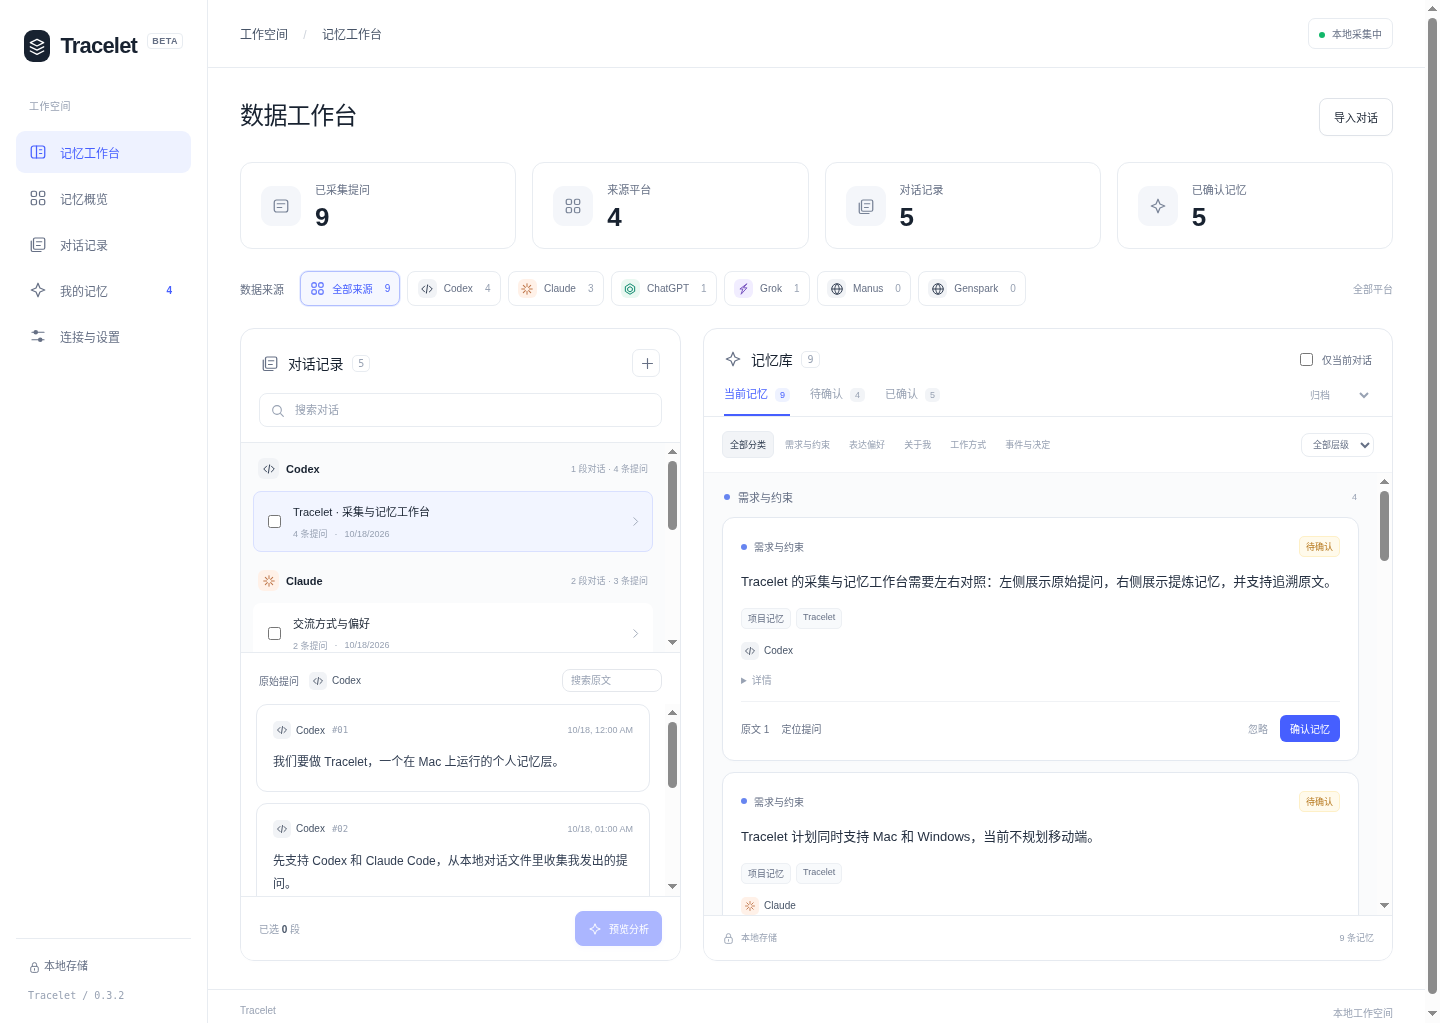
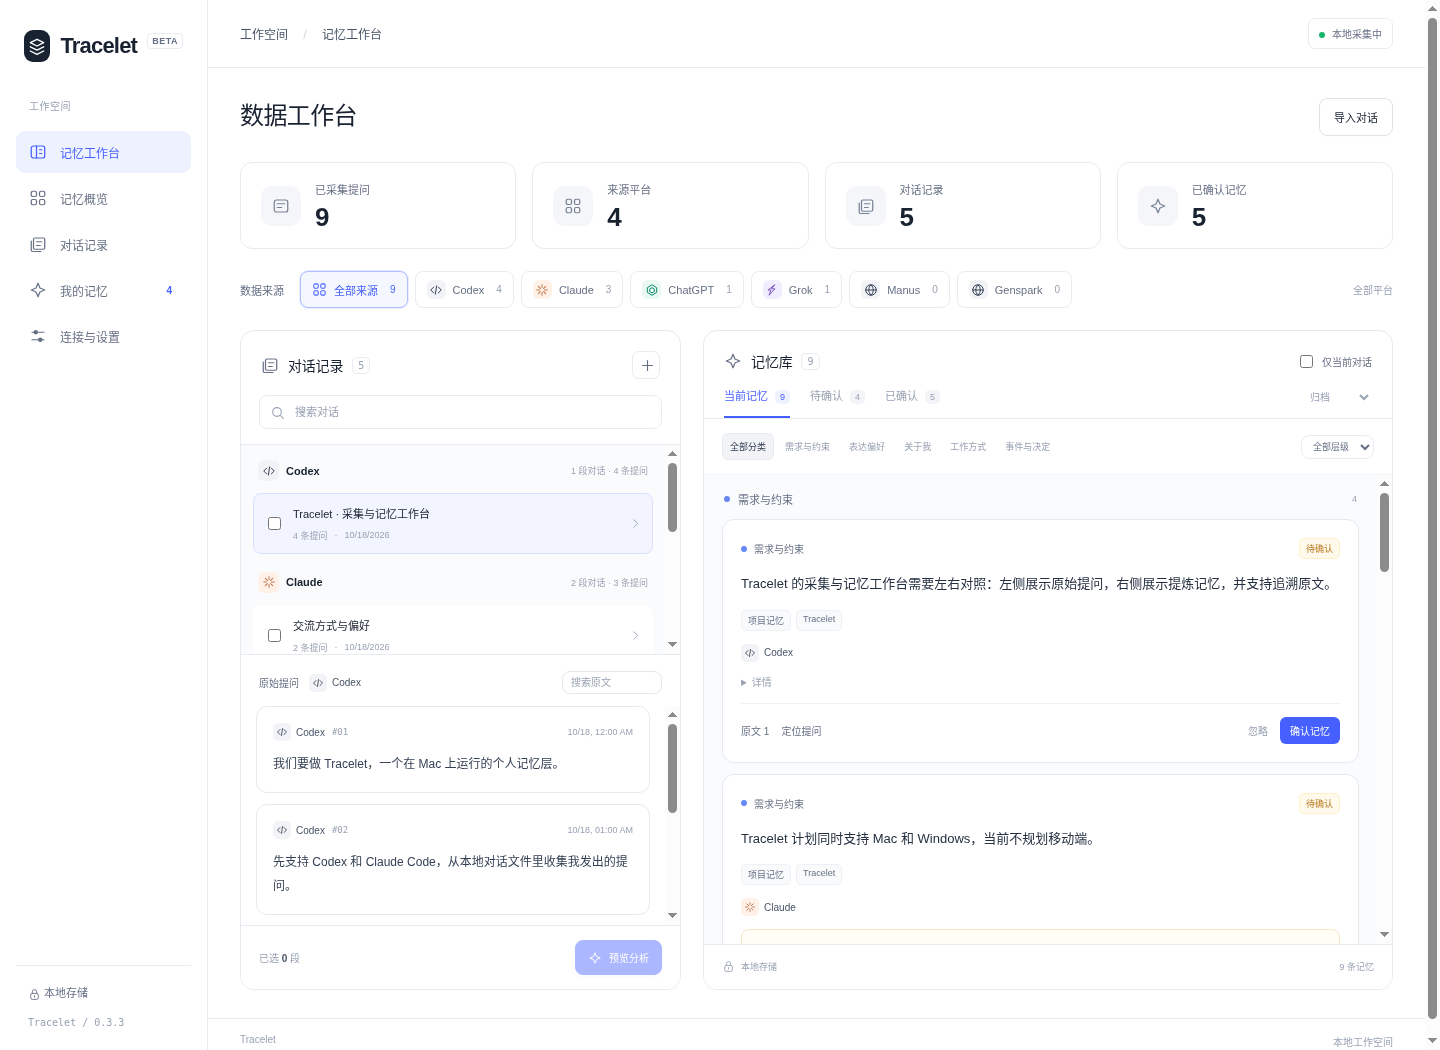
Use software offscreen rendering for reliable Intel Mac CI screenshots

diff --git a/site/privacy.html b/site/privacy.html
@@ -1,1 +1,1 @@
-<!doctype html><html lang="zh-CN"><head><meta charset="utf-8"><meta name="viewport" content="width=device-width,initial-scale=1"><meta name="description" content="Tracelet 隐私说明：本地采集、AI 分析、密钥保护及数据导出与删除。"><title>隐私说明 · Tracelet</title><link rel="icon" href="icon.svg"><link rel="stylesheet" href="style.css"><meta http-equiv="Content-Security-Policy" content="default-src 'self'; style-src 'self'; img-src 'self'; object-src 'none'; base-uri 'none'"></head><body><header class="site-header"><a class="wordmark" href="index.html"><span class="logo">⌁</span>tracelet</a><a class="text-link" href="index.html">返回首页 ↗</a></header><main class="legal"><div class="overline">PRIVACY, IN PLAIN WORDS · 0.3.2</div><h1>你的记忆，由你掌握。</h1><p>这份说明对应 Tracelet 0.3.2 测试版，说明应用实际读取、保存和发送什么。</p><h2>1. 读取哪些内容</h2><p>采集默认关闭。你开启后，应用监听本机 Codex sessions 和 Claude Code projects 目录下的 JSONL 文件，解析用户消息的文本。解析会临时读取对话文件（其中可能包含助手消息），但只有用户提问及来源元数据会存入数据库。导入功能读取你在文件选择器中选定的 JSON 或 JSONL。我们不监听键盘、不录屏、不读取浏览器 Cookie。</p><p>Chrome / Edge 扩展只有在你逐站授权开启后才读取页面中匹配规则的已提交用户消息。仅限已加载的文本，不读取输入框草稿；模板必须预览核对。网站 DOM 变化或规则不准确时可能误选内容。扩展存储本地副本和待同步队列，通过 Native Messaging 连接已配对的本机应用；不调用 OpenRouter、不读取 Cookie、不注入网页脚本或截获网络请求。来源 URL 去掉查询参数与片段；会话标识为哈希，可能包含指定会话参数的哈希。网页通常没有原始发言时间，显示的是采集时间。</p><h2>2. 数据放在哪里</h2><p>对话、时间、平台、会话标识和来源路径，以及候选和已确认记忆，保存在 macOS 的 ~/Library/Application Support/Tracelet/ 中。SQLite 数据库本身未加密；文件权限仅限当前系统用户。建议开启 FileVault，避免共享系统账户。备份软件也可能复制这些文件。没有 Tracelet 云端账号或遥测服务。</p><p>扩展副本保存在浏览器 storage.local，未单独加密。桌面连接先将数据包存入 browser-inbox，入库完成后删除入站文件。只有已配对的扩展 ID 可调用 Host；配对会在当前用户的 Chrome / Edge NativeMessagingHosts 目录写入清单，并在应用数据目录保存启动脚本。</p><h2>3. AI 分析会发送什么</h2><p>分析需要你选择对话并确认预览。应用仅通过 HTTPS 将预览中显示的提问正文、证据 ID、会话标识、时间及预览中的参考记忆，以及系统分析指令、模型参数发送至 OpenRouter。不会把本地文件路径、API Key 放在分析正文中；API Key 仅用于 Authorization 认证。OpenRouter 再将内容路由到你选择的模型提供商；这些内容适用相应服务商的数据政策，不能视为完全离线。请勿发送你无权分享的内容；原文可能包含个人信息或秘密，发送前务必检查。</p><p>应用没有自动后台分析或无提示的模型回退。获取可用模型列表也会连接 OpenRouter。费用由你的 OpenRouter 账户承担。参见 <a href="https://openrouter.ai/privacy">OpenRouter 隐私政策</a>。</p><h2>4. API Key 如何保护</h2><p>应用通过 Electron safeStorage 使用 macOS Keychain 保护加密密钥，将 API Key 的加密数据保存到用户数据目录。系统安全存储不可用时拒绝保存。Key 不放在网页、GitHub、安装包、对话数据库或 JSON 导出中。你可以在设置中移除 Key。在聊天或公开文件中暴露的 Key 应立即撤销。</p><h2>5. 记忆如何确认</h2><p>AI 输出只作为候选，可能不准确。候选必须引用有效提问证据，通过结构校验后保存；仍需你人工确认或忽略。模型输出的“自评置信度”并非统计准确率。分析不运行工具、不执行提问中的命令，不会自动删除或覆盖你已确认的记忆。</p><h2>6. 导出、删除与卸载</h2><p>你可以导出包含原文的 JSON，请妥善保管。清空数据会删除本机提问和记忆并暂停自动采集；不会删除平台的原始对话文件、其他位置的导出或备份，也无法撤回已经发送给模型服务商的请求。重新开启采集会重新导入本地来源。桌面暂停仅停止本地同步，停止网页采集需在扩展中暂停本站或撤回权限。清空桌面数据库不会清空扩展副本；需在扩展设置中另行清除，重新开启可能再次导入历史。卸载扩展不移除桌面 Host 清单；可删除浏览器 NativeMessagingHosts 中 app.tracelet.browser.json 以解除原生连接。API Key 独立移除。卸载应用不会自动删除用户数据目录。</p><h2>7. 官网</h2><p>官网是 GitHub Pages 静态页面，没有登录、表单或分析脚本。页面从同源读取发布状态文件。浏览网站与下载安装包会向 GitHub 基础设施发起网络请求，适用 GitHub 的相关政策。</p><h2>反馈与联系</h2><p>可在 <a href="https://github.com/JackZhong1998/personal-memory/issues">GitHub Issues</a> 反馈；请勿在公开 Issue 中粘贴 API Key 或私人对话。</p></main></body></html>
+<!doctype html><html lang="zh-CN"><head><meta charset="utf-8"><meta name="viewport" content="width=device-width,initial-scale=1"><meta name="description" content="Tracelet 隐私说明：本地采集、AI 分析、密钥保护及数据导出与删除。"><title>隐私说明 · Tracelet</title><link rel="icon" href="icon.svg"><link rel="stylesheet" href="style.css"><meta http-equiv="Content-Security-Policy" content="default-src 'self'; style-src 'self'; img-src 'self'; object-src 'none'; base-uri 'none'"></head><body><header class="site-header"><a class="wordmark" href="index.html"><span class="logo">⌁</span>tracelet</a><a class="text-link" href="index.html">返回首页 ↗</a></header><main class="legal"><div class="overline">PRIVACY, IN PLAIN WORDS · 0.3.3</div><h1>你的记忆，由你掌握。</h1><p>这份说明对应 Tracelet 0.3.3 测试版，说明应用实际读取、保存和发送什么。</p><h2>1. 读取哪些内容</h2><p>采集默认关闭。你开启后，应用监听本机 Codex sessions 和 Claude Code projects 目录下的 JSONL 文件，解析用户消息的文本。解析会临时读取对话文件（其中可能包含助手消息），但只有用户提问及来源元数据会存入数据库。导入功能读取你在文件选择器中选定的 JSON 或 JSONL。我们不监听键盘、不录屏、不读取浏览器 Cookie。</p><p>Chrome / Edge 扩展只有在你逐站授权开启后才读取页面中匹配规则的已提交用户消息。仅限已加载的文本，不读取输入框草稿；模板必须预览核对。网站 DOM 变化或规则不准确时可能误选内容。扩展存储本地副本和待同步队列，通过 Native Messaging 连接已配对的本机应用；不调用 OpenRouter、不读取 Cookie、不注入网页脚本或截获网络请求。来源 URL 去掉查询参数与片段；会话标识为哈希，可能包含指定会话参数的哈希。网页通常没有原始发言时间，显示的是采集时间。</p><h2>2. 数据放在哪里</h2><p>对话、时间、平台、会话标识和来源路径，以及候选和已确认记忆，保存在 macOS 的 ~/Library/Application Support/Tracelet/ 中。SQLite 数据库本身未加密；文件权限仅限当前系统用户。建议开启 FileVault，避免共享系统账户。备份软件也可能复制这些文件。没有 Tracelet 云端账号或遥测服务。</p><p>扩展副本保存在浏览器 storage.local，未单独加密。桌面连接先将数据包存入 browser-inbox，入库完成后删除入站文件。只有已配对的扩展 ID 可调用 Host；配对会在当前用户的 Chrome / Edge NativeMessagingHosts 目录写入清单，并在应用数据目录保存启动脚本。</p><h2>3. AI 分析会发送什么</h2><p>分析需要你选择对话并确认预览。应用仅通过 HTTPS 将预览中显示的提问正文、证据 ID、会话标识、时间及预览中的参考记忆，以及系统分析指令、模型参数发送至 OpenRouter。不会把本地文件路径、API Key 放在分析正文中；API Key 仅用于 Authorization 认证。OpenRouter 再将内容路由到你选择的模型提供商；这些内容适用相应服务商的数据政策，不能视为完全离线。请勿发送你无权分享的内容；原文可能包含个人信息或秘密，发送前务必检查。</p><p>应用没有自动后台分析或无提示的模型回退。获取可用模型列表也会连接 OpenRouter。费用由你的 OpenRouter 账户承担。参见 <a href="https://openrouter.ai/privacy">OpenRouter 隐私政策</a>。</p><h2>4. API Key 如何保护</h2><p>应用通过 Electron safeStorage 使用 macOS Keychain 保护加密密钥，将 API Key 的加密数据保存到用户数据目录。系统安全存储不可用时拒绝保存。Key 不放在网页、GitHub、安装包、对话数据库或 JSON 导出中。你可以在设置中移除 Key。在聊天或公开文件中暴露的 Key 应立即撤销。</p><h2>5. 记忆如何确认</h2><p>AI 输出只作为候选，可能不准确。候选必须引用有效提问证据，通过结构校验后保存；仍需你人工确认或忽略。模型输出的“自评置信度”并非统计准确率。分析不运行工具、不执行提问中的命令，不会自动删除或覆盖你已确认的记忆。</p><h2>6. 导出、删除与卸载</h2><p>你可以导出包含原文的 JSON，请妥善保管。清空数据会删除本机提问和记忆并暂停自动采集；不会删除平台的原始对话文件、其他位置的导出或备份，也无法撤回已经发送给模型服务商的请求。重新开启采集会重新导入本地来源。桌面暂停仅停止本地同步，停止网页采集需在扩展中暂停本站或撤回权限。清空桌面数据库不会清空扩展副本；需在扩展设置中另行清除，重新开启可能再次导入历史。卸载扩展不移除桌面 Host 清单；可删除浏览器 NativeMessagingHosts 中 app.tracelet.browser.json 以解除原生连接。API Key 独立移除。卸载应用不会自动删除用户数据目录。</p><h2>7. 官网</h2><p>官网是 GitHub Pages 静态页面，没有登录、表单或分析脚本。页面从同源读取发布状态文件。浏览网站与下载安装包会向 GitHub 基础设施发起网络请求，适用 GitHub 的相关政策。</p><h2>反馈与联系</h2><p>可在 <a href="https://github.com/JackZhong1998/personal-memory/issues">GitHub Issues</a> 反馈；请勿在公开 Issue 中粘贴 API Key 或私人对话。</p></main></body></html>

diff --git a/apps/desktop/src/main.tsx b/apps/desktop/src/main.tsx
@@ -26,7 +26,7 @@ function App(){
  const detail=async(id:string,t:string)=>{setPrompts(await api.prompts(id));setTitle(t)};
  const importFile=()=>action(async()=>{const r=await api.importFile();setNotice(r.message)});
  const analyzeSelection=()=>action(async()=>{if(!selected.length)throw new Error('请先勾选要分析的对话');setOutbound(await api.preview(selected))});
- return <div className="app"><aside className="sidebar"><a className="brand" onClick={()=>setPage('workspace')}><span className="mark"><Icon name="logo" size={20}/></span>Tracelet<span className="beta">BETA</span></a><p className="workspace-label">工作空间</p><nav>{[['workspace','◫','记忆工作台'],['overview','▦','记忆概览'],['traces','⌘','对话记录'],['memories','✧','我的记忆'],['settings','⚙','连接与设置']].map(([id,icon,label])=><button className={page===id?'nav active':'nav'} onClick={()=>setPage(id)} key={id}><span><Icon name={id}/></span>{label}{id==='memories'&&pending.length>0&&<b>{pending.length}</b>}</button>)}</nav><div className="sidebar-bottom"><Icon name="lock" size={13}/> 本地存储<span className="version">Tracelet / 0.3.2</span></div></aside>
+ return <div className="app"><aside className="sidebar"><a className="brand" onClick={()=>setPage('workspace')}><span className="mark"><Icon name="logo" size={20}/></span>Tracelet<span className="beta">BETA</span></a><p className="workspace-label">工作空间</p><nav>{[['workspace','◫','记忆工作台'],['overview','▦','记忆概览'],['traces','⌘','对话记录'],['memories','✧','我的记忆'],['settings','⚙','连接与设置']].map(([id,icon,label])=><button className={page===id?'nav active':'nav'} onClick={()=>setPage(id)} key={id}><span><Icon name={id}/></span>{label}{id==='memories'&&pending.length>0&&<b>{pending.length}</b>}</button>)}</nav><div className="sidebar-bottom"><Icon name="lock" size={13}/> 本地存储<span className="version">Tracelet / 0.3.3</span></div></aside>
  <main><header><div className="breadcrumb">工作空间 <span>/</span> {page==='workspace'?'记忆工作台':page==='overview'?'概览':page==='traces'?'对话记录':page==='memories'?'个人记忆':'连接与设置'}</div><span className="status"><i className={data.settings.paused?'gray':''}/>{data.settings.paused?'桌面同步已暂停':data.settings.watchCodex||data.settings.watchClaude||data.settings.watchBrowser?'本地采集中':'等待连接'}</span></header>
  <div className="content"><div className="page-heading"><div><h1>{page==='workspace'?'数据工作台':page==='overview'?'概览':page==='traces'?'对话记录':page==='memories'?'记忆库':'连接与设置'}</h1></div>{page!=='settings'&&<button className="button" disabled={busy} onClick={importFile}>导入对话</button>}</div>
  {notice&&<div className="notice" role="status">{notice}<button onClick={()=>setNotice('')}>×</button></div>}

diff --git a/apps/desktop/electron/main.ts b/apps/desktop/electron/main.ts
@@ -16,6 +16,7 @@ let browserWatcher:FSWatcher|undefined;
 let errors:string[]=[];let busy=false;let queue=Promise.resolve();
 const dev=process.argv.includes('--dev')&&!app.isPackaged;
 const smoke=process.argv.includes('--smoke')&&!app.isPackaged;
+if(smoke)app.disableHardwareAcceleration();
 if(smoke&&process.env.TRACELET_SMOKE_DATA)app.setPath('userData',process.env.TRACELET_SMOKE_DATA);
 const dataDir=()=>app.getPath('userData');
 const keyFile=()=>join(dataDir(),'openrouter.key');
@@ -26,7 +27,7 @@ async function getKey(){try{return safeStorage.decryptString(await readFile(keyF
 async function keyPresent(){try{await stat(keyFile());return true}catch{return false}}
 async function publicSettings(){return {...settings,keyPresent:await keyPresent(),keyStorageAvailable:safeStorage.isEncryptionAvailable()}}
 function show(){if(window){window.show();window.focus();return}
- window=new BrowserWindow({width:1250,height:850,minWidth:960,minHeight:680,title:'Tracelet · 你的个人记忆层',backgroundColor:'#ffffff',webPreferences:{preload:join(__dirname,'preload.cjs'),contextIsolation:true,nodeIntegration:false,sandbox:true}});
+ window=new BrowserWindow({width:1250,height:850,minWidth:960,minHeight:680,title:'Tracelet · 你的个人记忆层',show:!smoke,backgroundColor:'#ffffff',webPreferences:{...(smoke?{offscreen:true,backgroundThrottling:false}:{}),preload:join(__dirname,'preload.cjs'),contextIsolation:true,nodeIntegration:false,sandbox:true}});
  window.webContents.setWindowOpenHandler(()=>({action:'deny'}));
  window.webContents.on('will-navigate',e=>e.preventDefault());
  window.on('close',e=>{if(!quitting){e.preventDefault();window?.hide()}});
@@ -128,7 +129,7 @@ if(!app.requestSingleInstanceLock())app.quit();else{
    const browserPrompt=store.prompts().find(p=>p.provider==='grok');if(store.count()!==3||browserPrompt?.timeSource!=='captured'||browserPrompt?.source!=='https://grok.com/c/smoke')throw new Error('Smoke failed: native inbox watcher');
    console.log('TRACELET_SMOKE_OK: watcher, SQLite/WASM, split workspace, evidence navigation, human review, exact outgoing preview, compiled native host and browser inbox; no AI request sent');app.quit();
   }
- }).catch(e=>{if(smoke){console.error('TRACELET_SMOKE_FAILED:',String(e.message));app.exit(1)}else{dialog.showErrorBox('Tracelet 启动失败',String(e.message));app.quit()}});
+ }).catch(e=>{if(smoke){console.error('::error::TRACELET_SMOKE_FAILED: '+String(e.message));app.exit(1)}else{dialog.showErrorBox('Tracelet 启动失败',String(e.message));app.quit()}});
  app.on('activate',()=>{if(store)show()});
  app.on('before-quit',()=>{quitting=true;void watcher?.close();void browserWatcher?.close()});
  app.on('window-all-closed',()=>{});

diff --git a/README.md b/README.md
@@ -4,7 +4,7 @@
 
 首版产品和官网已包含在此仓库。网站下载按钮读取发布清单，只有真实 Release 同时具有两个架构的 DMG 和校验文件时才启用。
 
-## 0.3.2 来源分类与浏览器采集
+## 0.3.3 来源分类与浏览器采集
 
 应用默认打开左右对照工作台：左侧查看对话原文，右侧按层级与状态查看记忆，支持定位证据、审核更新和查看历史。新版提炼区分长期个人、项目和会话情节，附逐字引文、范围与新增/更新/冲突/重复建议。相关旧记忆也会列入发送预览；替换必须手动确认。旧记录保留并显示未分层，旧提问可经用户选择后重新分析。
 

diff --git a/docs/BROWSER_CAPTURE.md b/docs/BROWSER_CAPTURE.md
@@ -1,4 +1,4 @@
-# 浏览器采集 · 0.3.2 Beta
+# 浏览器采集 · 0.3.3 Beta
 
 支持 Chrome / Edge 扩展。不是浏览器插件商店发行版；目前以已解压扩展加载。Safari 暂未支持。
 
